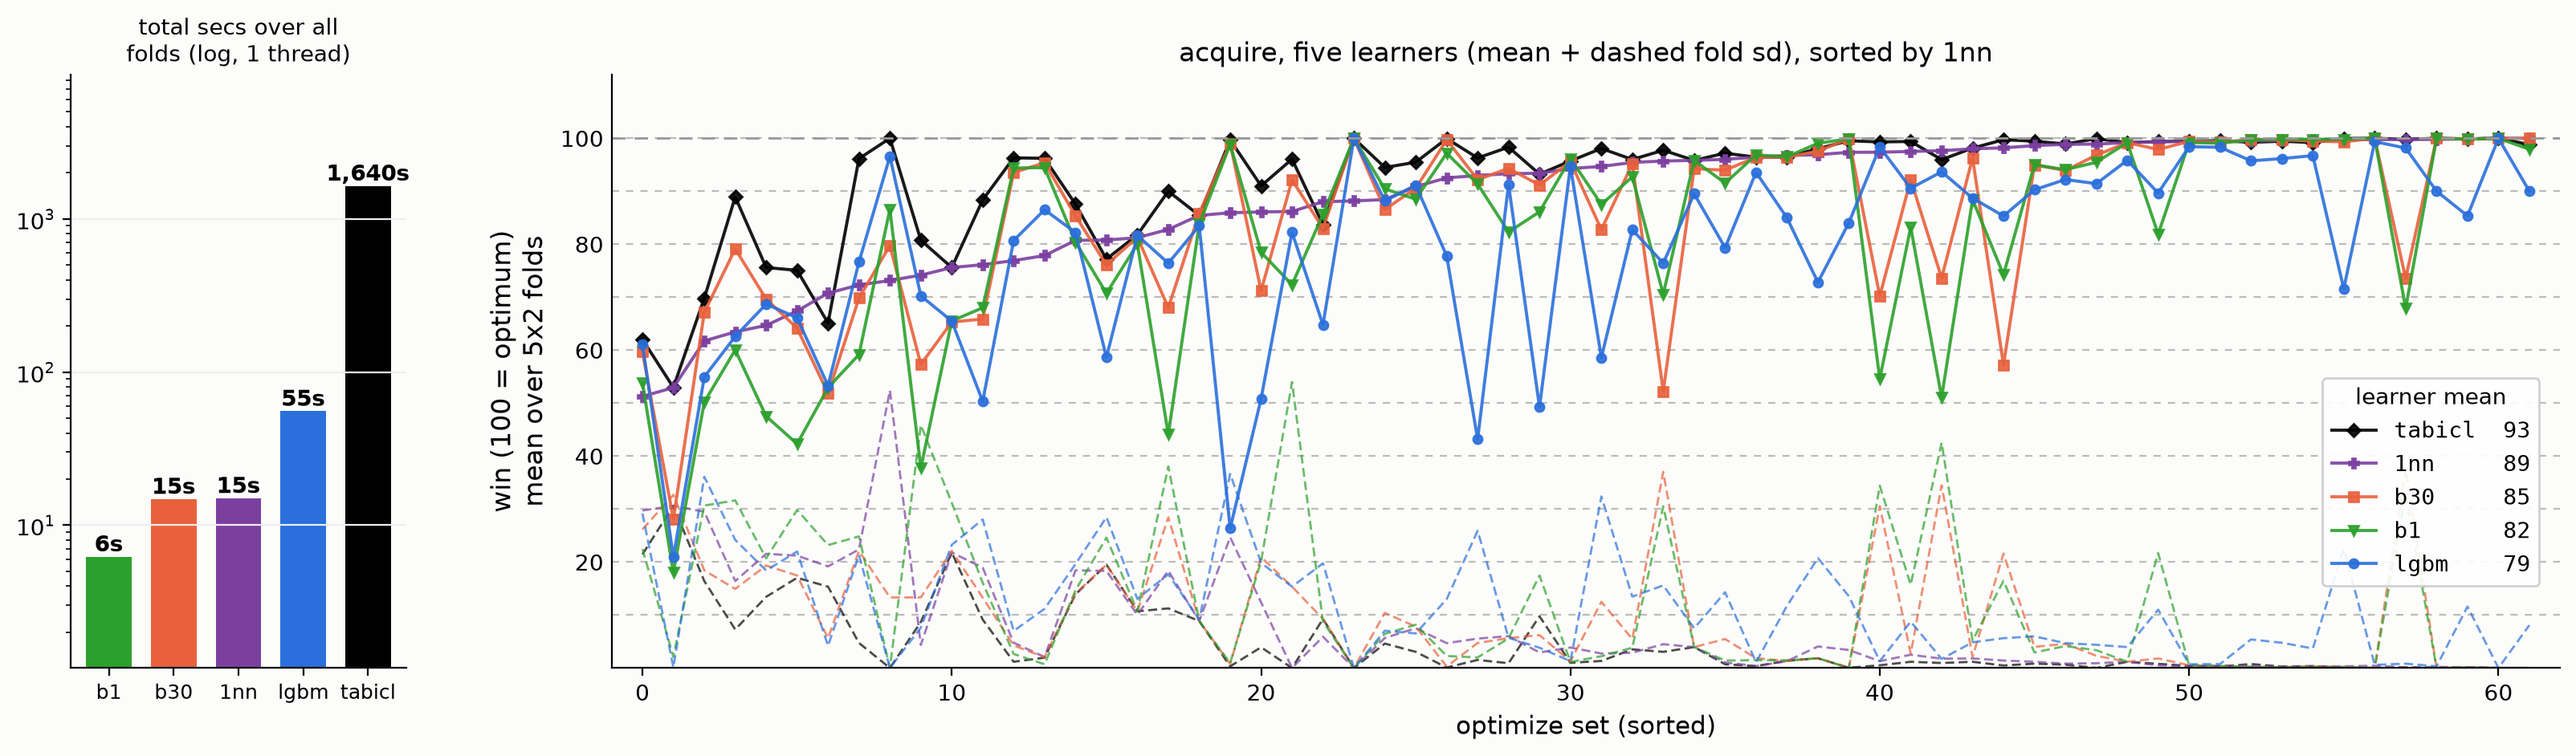
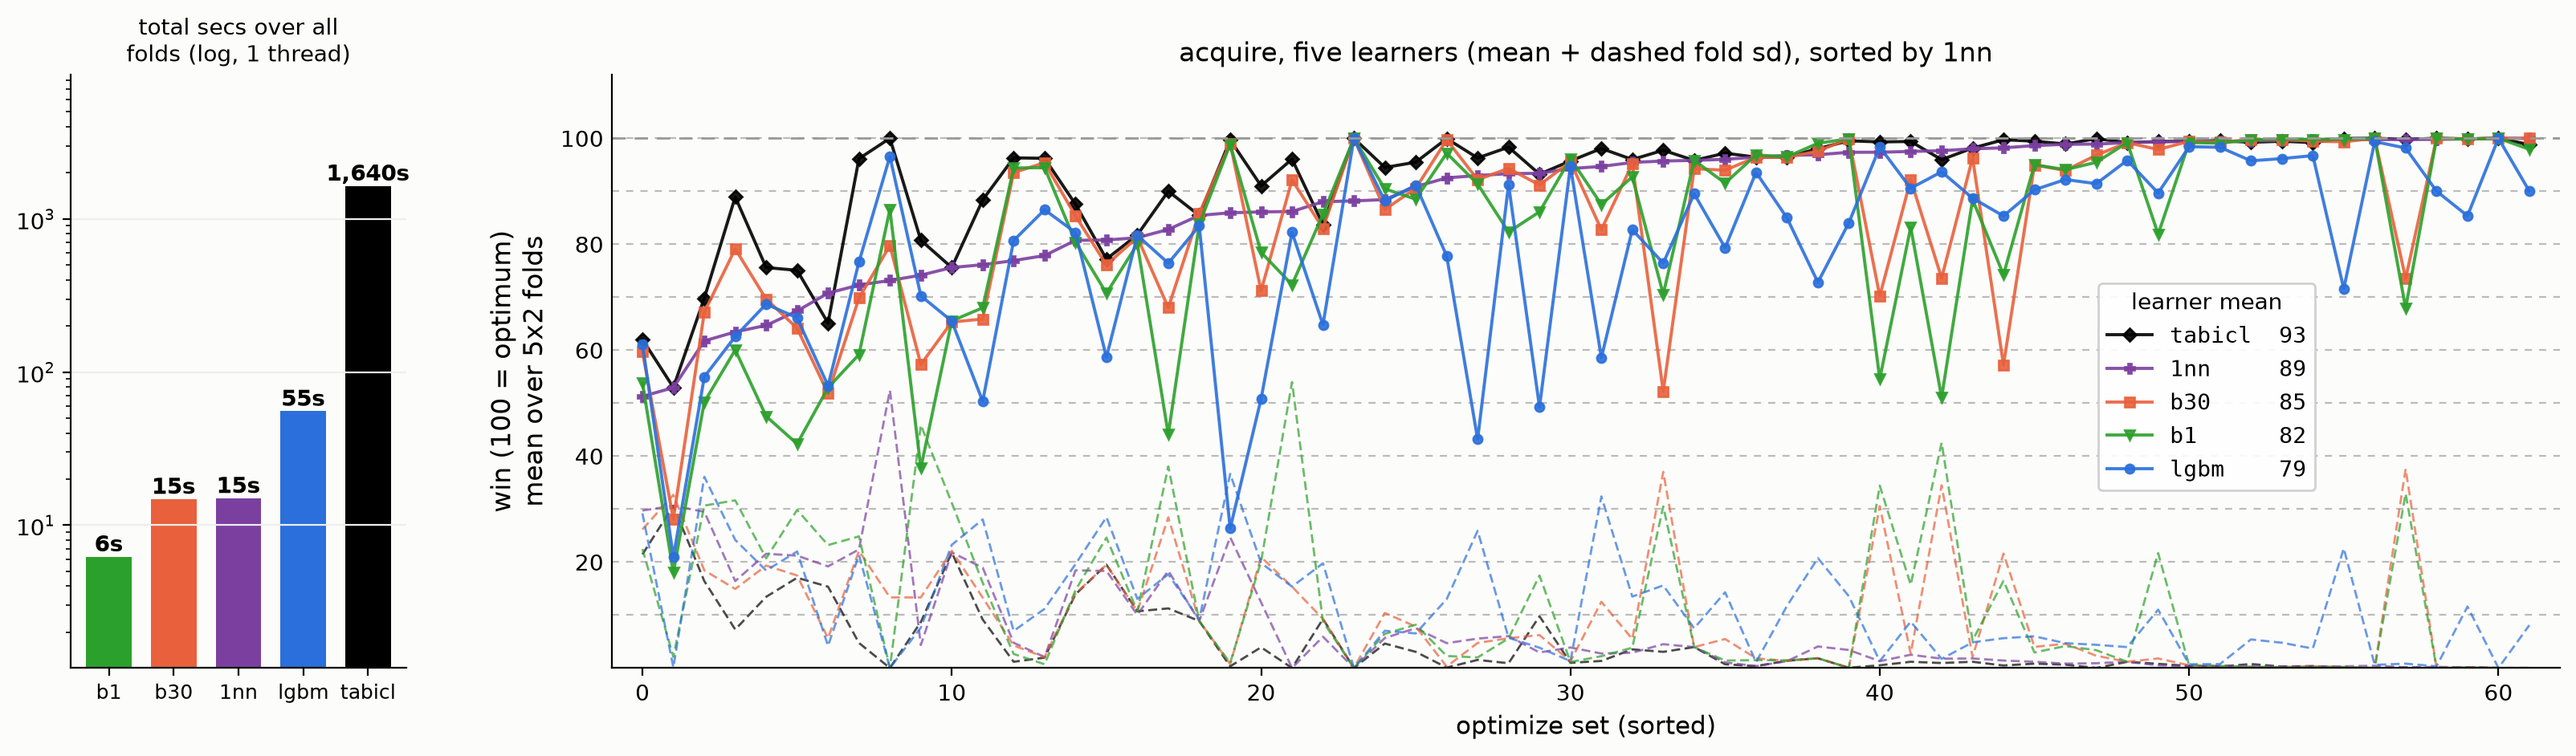
ens-active: legend left and up, clear of the data

Changed region(s): [[0.8105, 0.3694, 0.9975, 0.7081], [0.904, 0.7389, 0.9975, 0.8004]]

diff --git a/active_plot.py b/active_plot.py
@@ -98,7 +98,7 @@ ax.set_ylim(0, 112); ax.set_xlim(-1, len(order))
 ax.axhline(100, color="#999", lw=1, ls=(0, (6, 4)))
 ax.set_title("acquire, five learners (mean + dashed fold sd), sorted by 1nn",
              fontsize=12)
-ax.legend(fontsize=10, loc="lower right", bbox_to_anchor=(.995, .12),
+ax.legend(fontsize=10, loc="lower right", bbox_to_anchor=(.88, .28),
           framealpha=.9, title="learner mean",
           prop={"family": "monospace", "size": 10})
 ax.set_yticks([20, 40, 60, 80, 100])
